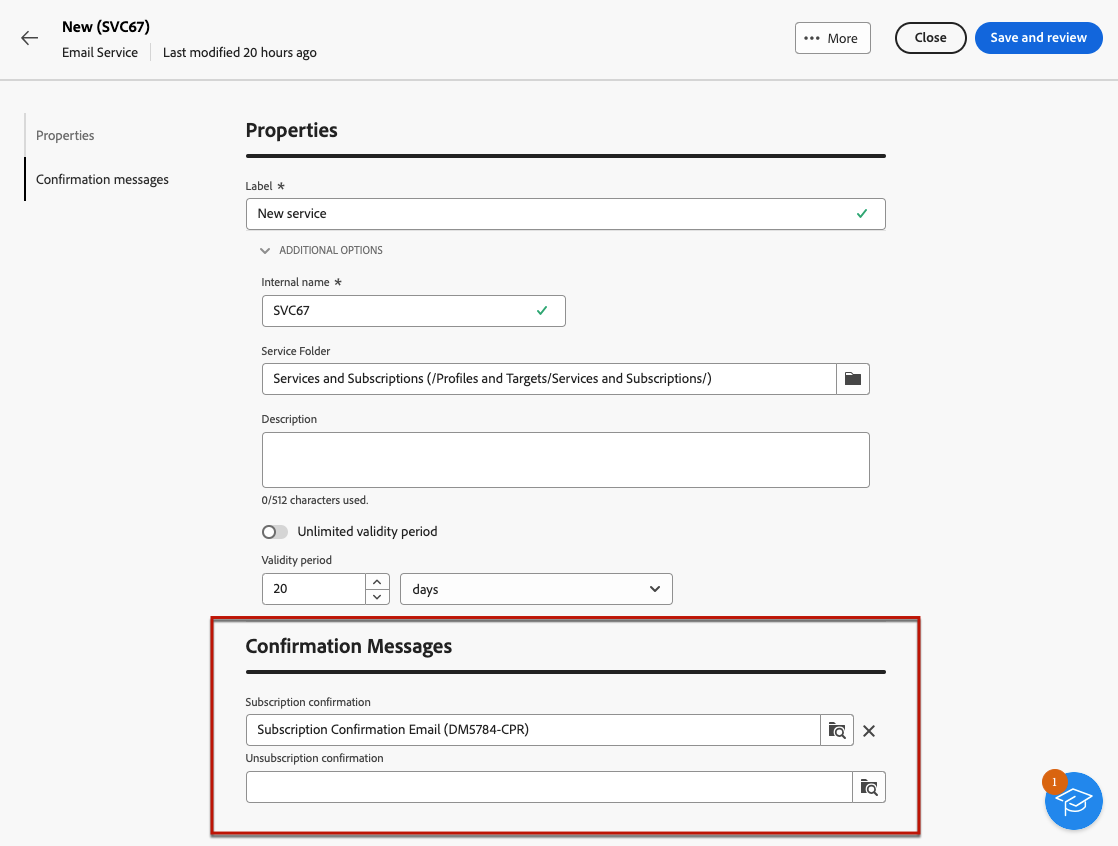
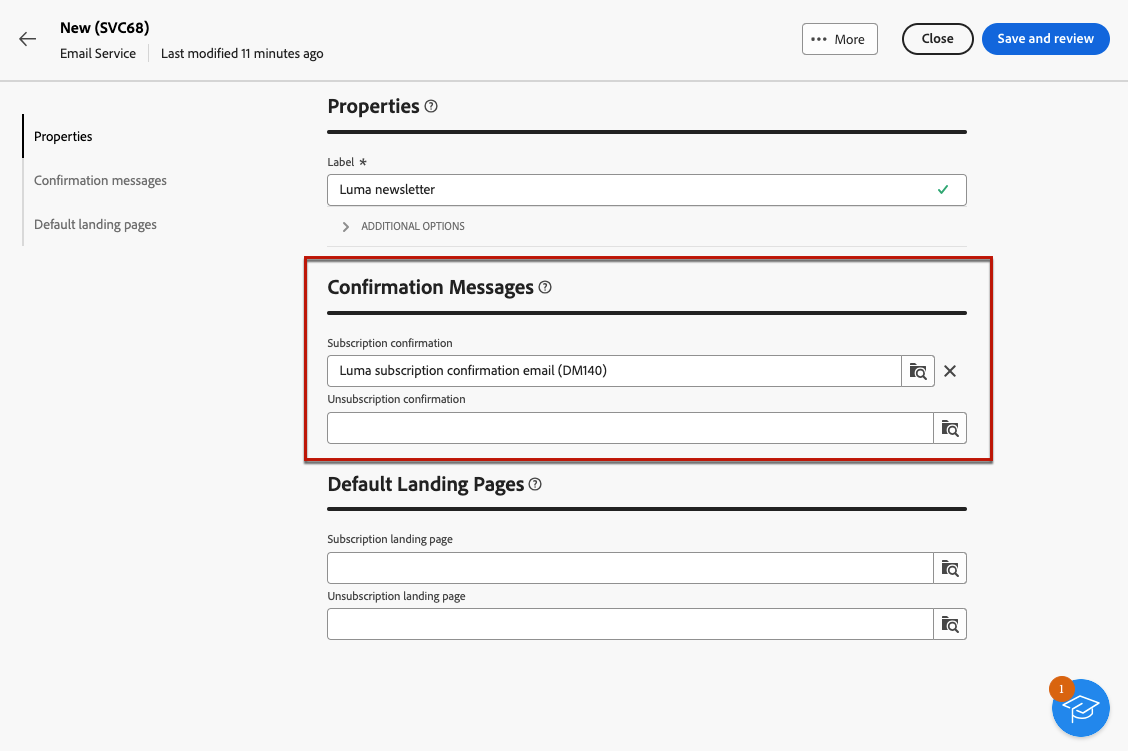
LP v2 updates - DOCAC-9993/DOCAC-9994

diff --git a/help/v8/landing-pages/create-lp.md b/help/v8/landing-pages/create-lp.md
@@ -98,7 +98,7 @@ To create a landing page, follow these steps:
 
     * The **[!UICONTROL Skip preloading if no ID]** option must be selected if you do not wish to update profiles. In this case, each profile entered will be added to the database after approval of the form. This option is used, for example, when the form is posted on a website.
 
-    * The **[!UICONTROL Authorize unidentified visitors]** option allows any visitor to access the landing page. If you unselect this option, only identified users can access and/or<!--cannot access the LP or submit the form?--> submit the form. This option is unchecked by default for **[!UICONTROL Unsubscription]** and **[!UICONTROL Denylist]** templates and cannot be modified<!--as per ticket - TBC? in that case, is it greyed out or doesn't display?-->.
+    * The **[!UICONTROL Authorize absence of ID / unidentified visitors]** option allows any visitor to access the landing page. If you unselect this option, only identified users can access and/or<!--cannot access the LP or submit the form?--> submit the form. This option is unchecked by default for **[!UICONTROL Unsubscription]** and **[!UICONTROL Denylist]** templates and cannot be modified<!--as per ticket - TBC? in that case, is it greyed out or doesn't display?-->.
 
 1. A landing page can have subsequent pages. To add pages, browset the **[!UICONTROL Pages]** section, and click the **[!UICONTROL Edit content]** button for each page that you want to design for this landing page. The content of each page is already pre-filled. Edit them as needed. [Learn more](lp-content.md)
 

diff --git a/help/v8/audience/manage-services.md b/help/v8/audience/manage-services.md
@@ -47,6 +47,11 @@ To access subscription services available for your platform, follow the steps be
 >title="Select a confirmation message"
 >abstract="When a user subscribes to or unsubscribes from a service, you can send a confirmation message. Select the templates to use for that message."
 
+>[!CONTEXTUALHELP]
+>id="acw_subscriptions_defaultlp"
+>title="Default landing page"
+>abstract="Select the default landing pages associated with this service."
+
 To create a subscription service, follow the steps below.
 
 1. Select the **[!UICONTROL Create subscription service]** button.
@@ -75,9 +80,15 @@ To create a subscription service, follow the steps below.
 
 1. Click **[!UICONTROL Save and review]**. The new service is added to the **[!UICONTROL Subscription services]** list.
 
+1. You can also select the default subscription and unsubscription landing pages associated with this service.<!--explain what it does: so when you select a LP in the email, you can select the service??-->
+
+    ![](assets/service-create-default-lp.png){zoomable="yes"}
+
 You can now:
 
-* Add subscribers to this service, and unsubscribe profiles. [Learn more](../msg/send-to-subscribers.md)
+* Manually add subscribers to this service, and unsubscribe profiles. [Learn more](../audience/manage-subscribers.md)
+
+* Invite your customers to subscribe to this service through a landing page. [Learn more](../landing-pages/lp-use-cases.md#lp-subscription)
 
 * Send messages to the subscribers of this service. [Learn how](../msg/send-to-subscribers.md)
 

diff --git a/help/v8/get-started/user-interface.md b/help/v8/get-started/user-interface.md
@@ -308,11 +308,6 @@ Deprecated IDs - to remove in GA: -->
 <!-- Subscription activity-->
 
 >[!CONTEXTUALHELP]
->id="acw_subscriptions_defaultlp"
->title="Default landing page"
->abstract="Select the default landing page associated to this subscription service."
-
->[!CONTEXTUALHELP]
 >id="acw_orchestration_subscription"
 >title="Subscription service activity"
 >abstract="Use Adobe Campaign to create and monitor your services such as newsletters, and to check the subscriptions or unsubscriptions to these services. Subscriptions only apply to email and SMS delivery."
